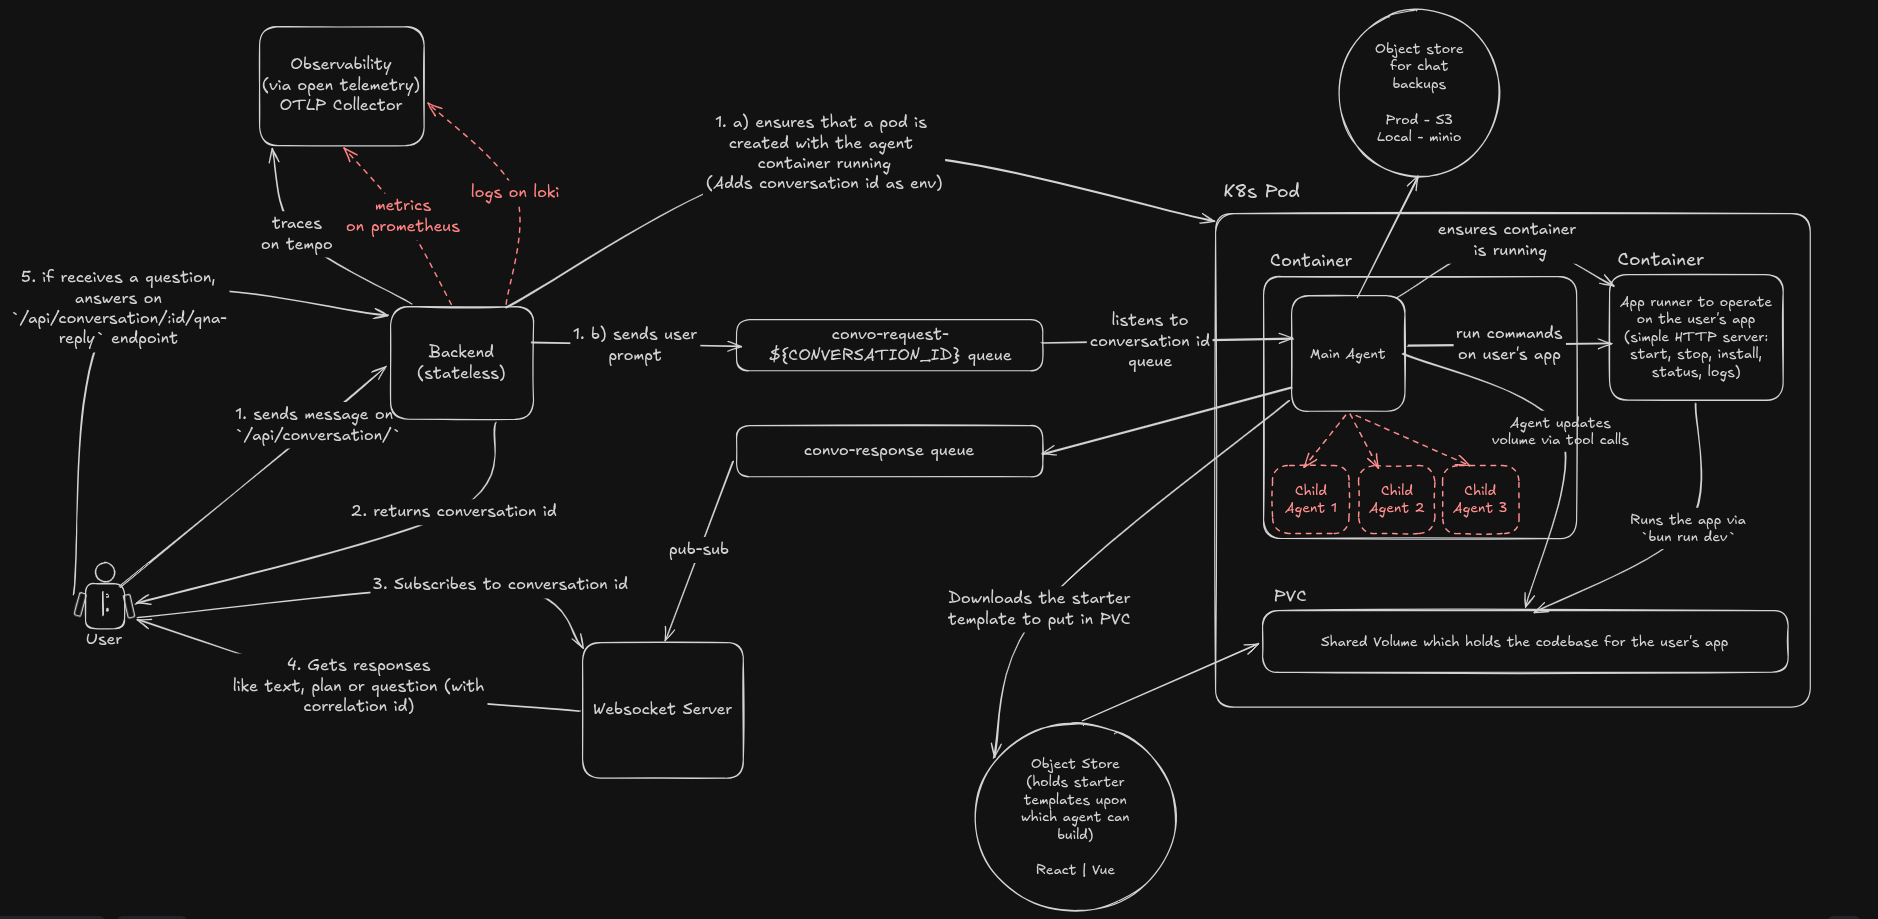
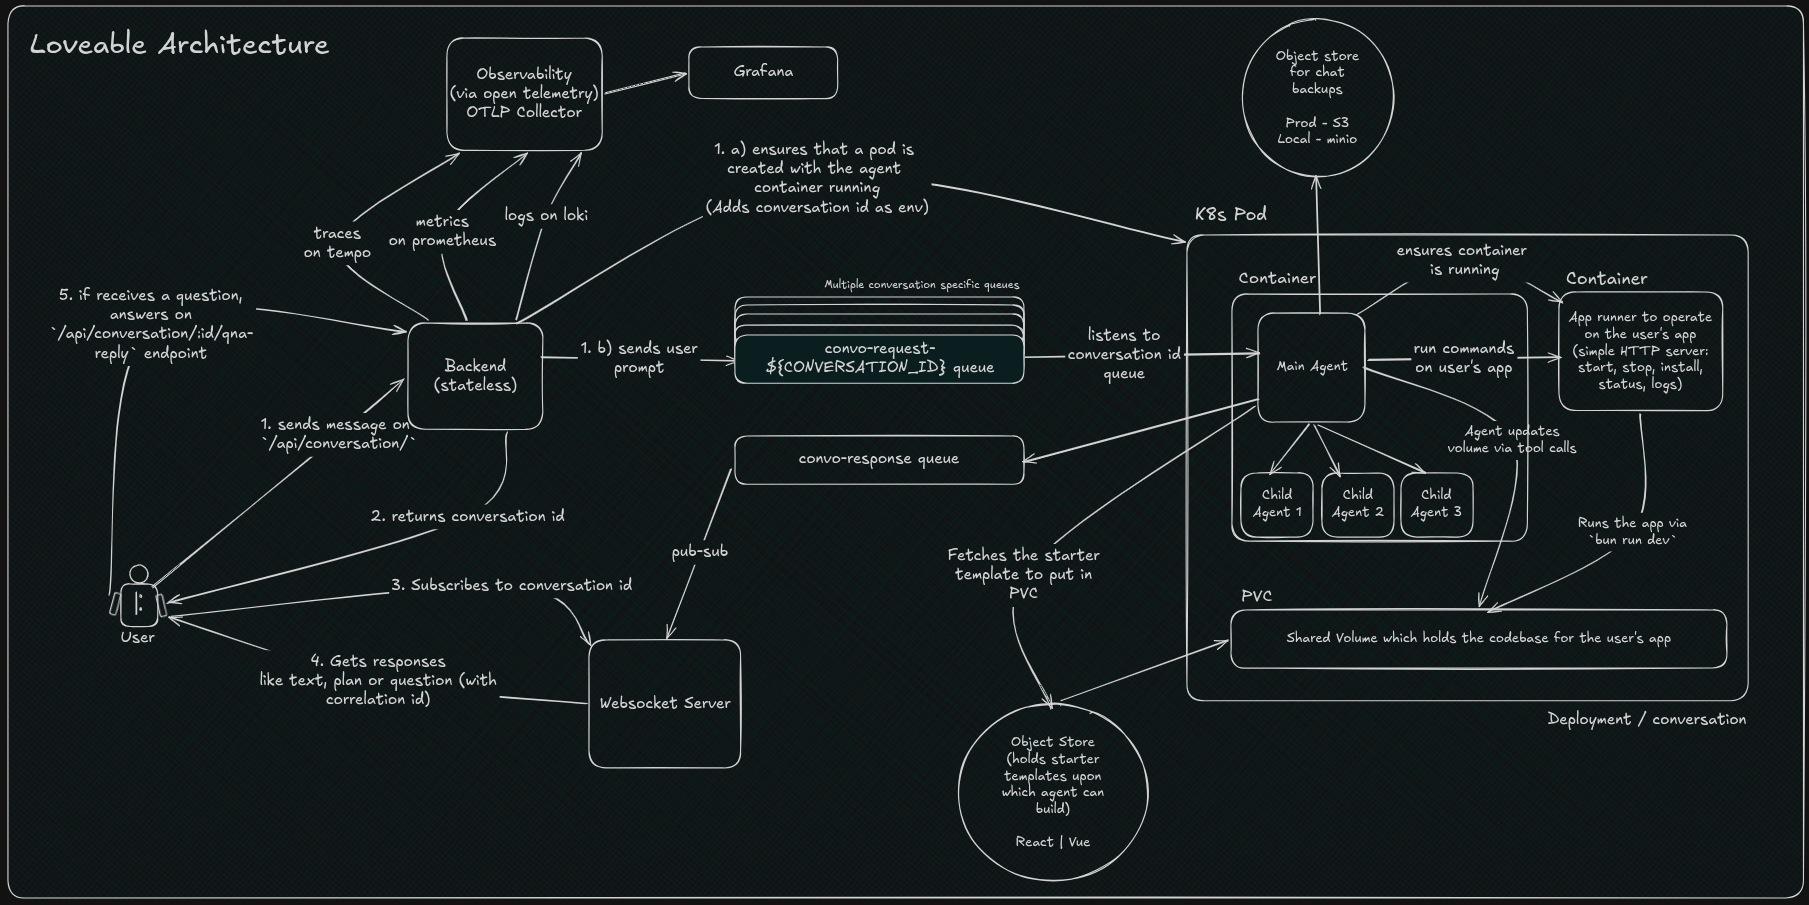
(docs): update README.md file with updates on observability and sub agent orchestration implemented

diff --git a/README.md b/README.md
@@ -1,8 +1,8 @@
 # Loveable Clone
 
-Loveable Clone is a lightweight coding-agent platform. Each conversation gets its own isolated Kubernetes workspace, user prompts are persisted before agent work starts, jobs are processed asynchronously through Redis, and live progress is streamed back to the browser while the agent edits project files.
+Loveable Clone is a Kubernetes-native coding-agent platform for generating and iterating on live web apps. It provisions an isolated workspace per conversation, persists project state on PVC-backed storage, serves previews through Services and Ingress, and streams agent progress back to the browser while a custom agentic harness edits the app.
 
-The system has moved beyond a simple chat application: it now coordinates a backend API, WebSocket updates, a redis queue job pipeline, Kubernetes conversation pods, an agent worker, an app runner, Postgres persistence, and shared project volumes.
+The system coordinates an authenticated backend API, Redis job queues and Pub/Sub, WebSocket updates, Kubernetes deployments, an agent worker, an app runner, Postgres persistence, S3-compatible backups, sub-agent orchestration, and full backend observability across traces, metrics, and logs.
 
 ## Current Capabilities
 
@@ -11,11 +11,17 @@ The system has moved beyond a simple chat application: it now coordinates a back
 - Create or reuse a dedicated Kubernetes pod for each conversation.
 - Inject environment variables, mount a shared PVC, and start the agent and app-runner containers inside the pod.
 - Queue work through Redis so messages are not lost while pods are starting.
-- Run an agent worker that loads conversation history, reads and edits project files, invokes Gemini/tooling, saves assistant messages, and publishes progress.
+- Run a custom agent harness that loads conversation history, reads and edits project files, invokes Gemini/tooling, saves assistant messages, and publishes progress through Redis Pub/Sub for WebSocket delivery.
+- Bootstrap new apps by downloading starter templates from S3, or from MinIO during local development, into the shared PVC workspace.
+- Back up chat history to an S3-compatible object store, using MinIO locally, so long-running conversations can survive agent crashes and later returns.
+- Orchestrate sub-agents from the main agent for isolated parallel work via tool call.
+- Run each sub-agent in its own Git worktree inside the shared PVC, collect diff artifacts, and let the main agent apply the returned patches.
 - Run a separate app-runner container that manages the generated application's dev server.
 - Stream real-time status updates through Redis Pub/Sub, backend subscriptions, WebSockets, and the browser.
 - Persist conversation history in Postgres so pods can be recreated and context can be restored from the database.
 - Expose generated app previews through Kubernetes Services and Ingress.
+- Authenticate requests while allowing anonymous users to start work and later claim their account.
+- Export backend traces, metrics, and logs through OpenTelemetry to the local observability stack.
 
 ---
 
@@ -52,8 +58,10 @@ The ecosystem consists of several specialized microservices built on k8s cluster
       |                                 |
  Gemini + tools                  bun install
  Edit files                      bun run dev
- Save messages                   restart on file changes
- Publish progress                expose preview server
+ Spawn sub-agents                restart on file changes
+ Apply artifacts                 expose preview server
+ Save messages
+ Publish progress
       |                                 |
       +---------- Shared Volume --------+
                        |
@@ -90,7 +98,12 @@ Agent Worker
  +-- Load conversation history
  +-- Run Gemini
  +-- Execute tools
+ +-- Download starter template from S3/MinIO when needed
+ +-- Optionally fork sub-agents over IPC
+ +-- Collect sub-agent artifacts from isolated worktrees
+ +-- Apply returned patches
  +-- Write files
+ +-- Back up chat history to object storage
  +-- Save assistant messages
  +-- Publish progress
          |
@@ -116,6 +129,18 @@ It watches the shared project directory, runs dependency installation, starts `b
 
 The agent edits files directly on the shared volume. It does not start or manage the dev server itself.
 
+## Project Bootstrap And Backups
+
+The `startBuildingApp` tool in `apps/agent/src/services/agentServices/startBuildingApp.ts` prepares a new project when there is no code yet. It downloads a starter template archive, such as the React starter, from the configured S3 starter-template bucket and extracts it into the PVC-backed workspace. In local development the same S3 API is served by the MinIO container, so the flow matches production without requiring AWS.
+
+Chat history is backed up to the configured chat-history object store through the agent response handler. Each backup is written as a timestamped object and copied to a latest backup key for the conversation; local development uses the same path against MinIO.
+
+## Sub-Agent Orchestration
+
+The main agent can delegate independent work to sub-agents through `SubAgentOrchestrator` in `apps/agent/src/services/subAgentOrchestrator.ts`.
+
+Sub-agents are spawned with `fork`, communicate completion or failure back to the parent process over IPC, and write their work as artifacts. Each sub-agent runs in a separate Git worktree inside the PVC-backed workspace. When a sub-agent finishes, it creates a diff artifact from its worktree, cleans up the worktree, and returns the artifact path to the main agent. The main agent reads those artifacts and applies the patches to the primary workspace.
+
 ## Repository Layout
 
 ```text
@@ -130,29 +155,30 @@ apps/
 
 packages/
   db/                 Drizzle/Postgres schema and database access
+  observability/      OpenTelemetry SDK setup, tracing helpers, metrics, and log export
   shared/             Shared types, schemas, and utilities
 
-infra/                Observability configuration, including Tempo and OTel collector
+observability/        Tempo, Prometheus, Loki, and OTel Collector config mounted by Docker Compose
 k8s/                  Kubernetes namespace, RBAC, PVC inspection, and ingress templates
 ops/                  Dockerfiles for agent and app-runner containers
 ```
 
 ## Technology Stack
 
-| Layer                   | Technology                                              |
-| ----------------------- | ------------------------------------------------------- |
-| Frontend                | React, Vite                                             |
-| API                     | Express, TypeScript                                     |
-| Database                | PostgreSQL, Drizzle ORM                                 |
-| Queue                   | Redis                                                   |
-| Live events             | Redis Pub/Sub, WebSockets                               |
-| AI                      | Gemini                                                  |
-| Runtime/package manager | Bun                                                     |
-| Containers              | Docker                                                  |
-| Orchestration           | Kubernetes, currently Minikube                          |
-| Workspace               | Shared volume inside each conversation pod              |
-| Networking              | Kubernetes Services and Ingress                         |
-| Observability           | OpenTelemetry, Tempo, Grafana configuration in progress |
+| Layer                   | Technology                                            |
+| ----------------------- | ----------------------------------------------------- |
+| Frontend                | React, Vite                                           |
+| API                     | Express, TypeScript                                   |
+| Database                | PostgreSQL, Drizzle ORM                               |
+| Queue                   | Redis                                                 |
+| Live events             | Redis Pub/Sub, WebSockets                             |
+| AI                      | Gemini                                                |
+| Runtime/package manager | Bun                                                   |
+| Containers              | Docker                                                |
+| Orchestration           | Kubernetes, currently Minikube                        |
+| Workspace               | Shared volume inside each conversation pod            |
+| Networking              | Kubernetes Services and Ingress                       |
+| Observability           | OpenTelemetry, OTLP, Tempo, Prometheus, Loki, Grafana |
 
 ## Local Development
 
@@ -191,7 +217,18 @@ Start the local observability stack:
 docker compose up
 ```
 
-This starts Tempo, the OpenTelemetry Collector, and Grafana using the configuration in `infra/`.
+This starts Tempo, the OpenTelemetry Collector, Prometheus, Loki, and Grafana using the configuration in `observability/`. The backend initializes `@repo/observability` before lazy-loading the server so OpenTelemetry auto-instrumentation can patch supported dependencies before they are imported.
+
+## Observability
+
+The backend exports telemetry over OTLP through the OpenTelemetry Collector:
+
+- traces are sent to Tempo
+- metrics are exposed for Prometheus
+- logs are sent to Loki
+- Tempo, Prometheus, and Loki are added as Grafana data sources
+
+The reusable OpenTelemetry setup lives in `packages/observability`, while service configuration for Tempo, Prometheus, Loki, and the OTel Collector lives in the root `observability/` directory and is mounted into containers by `docker-compose.yml`.
 
 ## Kubernetes
 
@@ -210,15 +247,14 @@ Relevant manifests and templates live in `k8s/`, while container build definitio
 - User messages are saved before agent execution starts.
 - Agent work is asynchronous and queued through Redis.
 - Each conversation gets an isolated Kubernetes execution environment.
+- PVC-backed workspaces keep project files independent of pod lifecycle.
 - The agent and app runner communicate through a shared filesystem, not file copying.
 - Live progress is published through Redis Pub/Sub and forwarded over WebSockets.
-- Crash recovery works by recreating the pod and reloading state from the database.
+- Crash recovery works by recreating the pod, reloading state from the database, and keeping chat-history backups in S3-compatible object storage.
 
 ## Roadmap
 
 Near-term areas called out for the project:
 
-- Observability with OpenTelemetry SDKs, OTLP export, collector configuration, Loki logs, Prometheus metrics, Grafana dashboards, and distributed tracing.
-- Sub agent orchestration via the main agent for context isolation.
 - Faster local developer workflow, including better Minikube ergonomics and potentially hostPath mounts for the inner loop.
-- Production readiness work such as authentication, authorization, secrets management, autoscaling, resource limits, retry/dead-letter handling, and WebSocket scaling across multiple backend replicas.
+- Production readiness work such as authorization, secrets management, autoscaling, resource limits, retry/dead-letter handling, and WebSocket scaling across multiple backend replicas.
